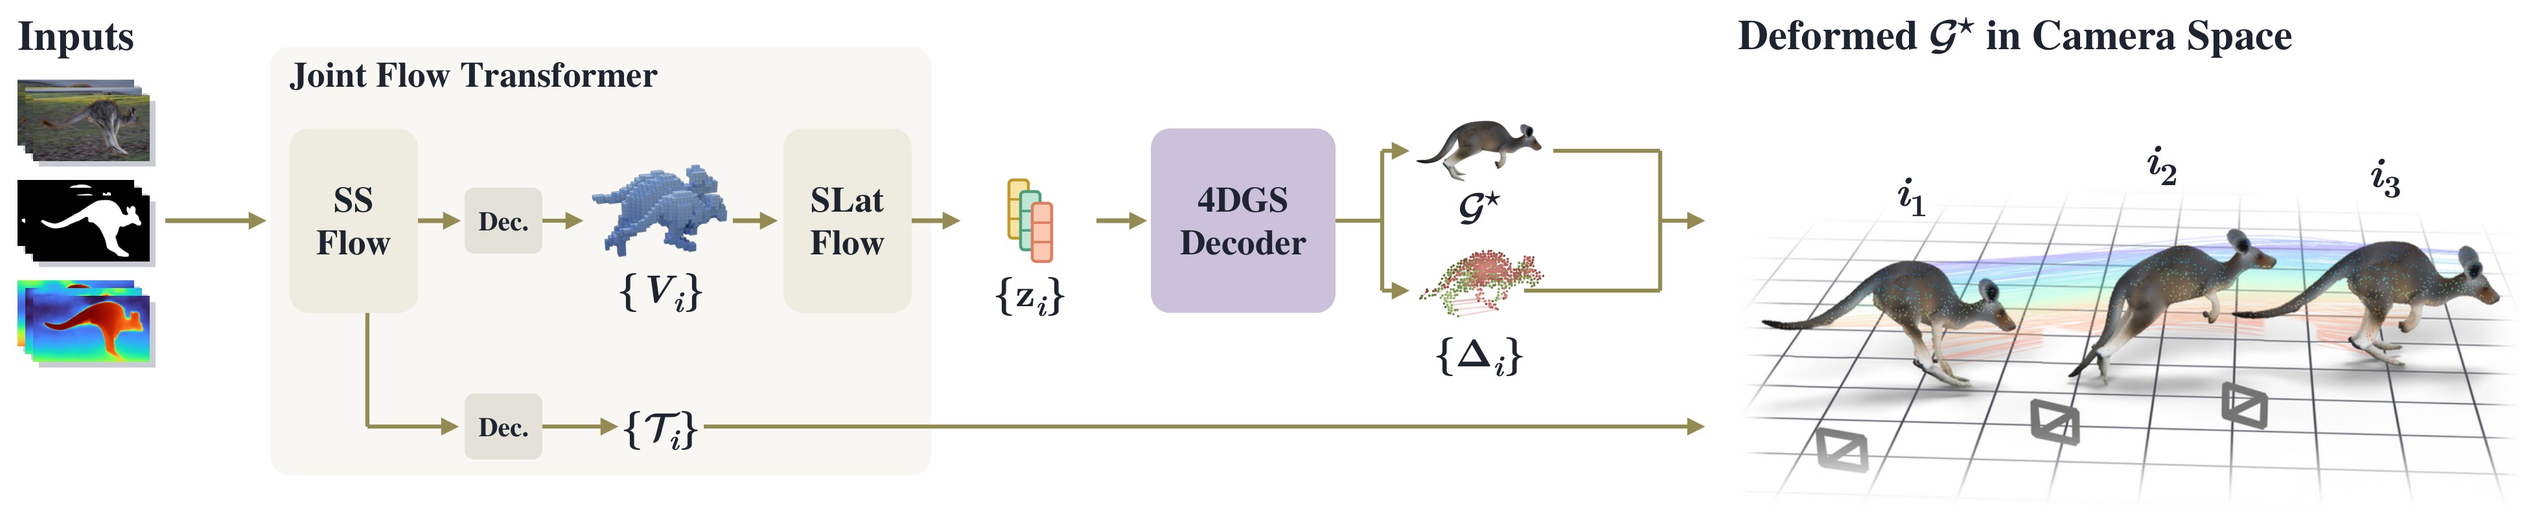
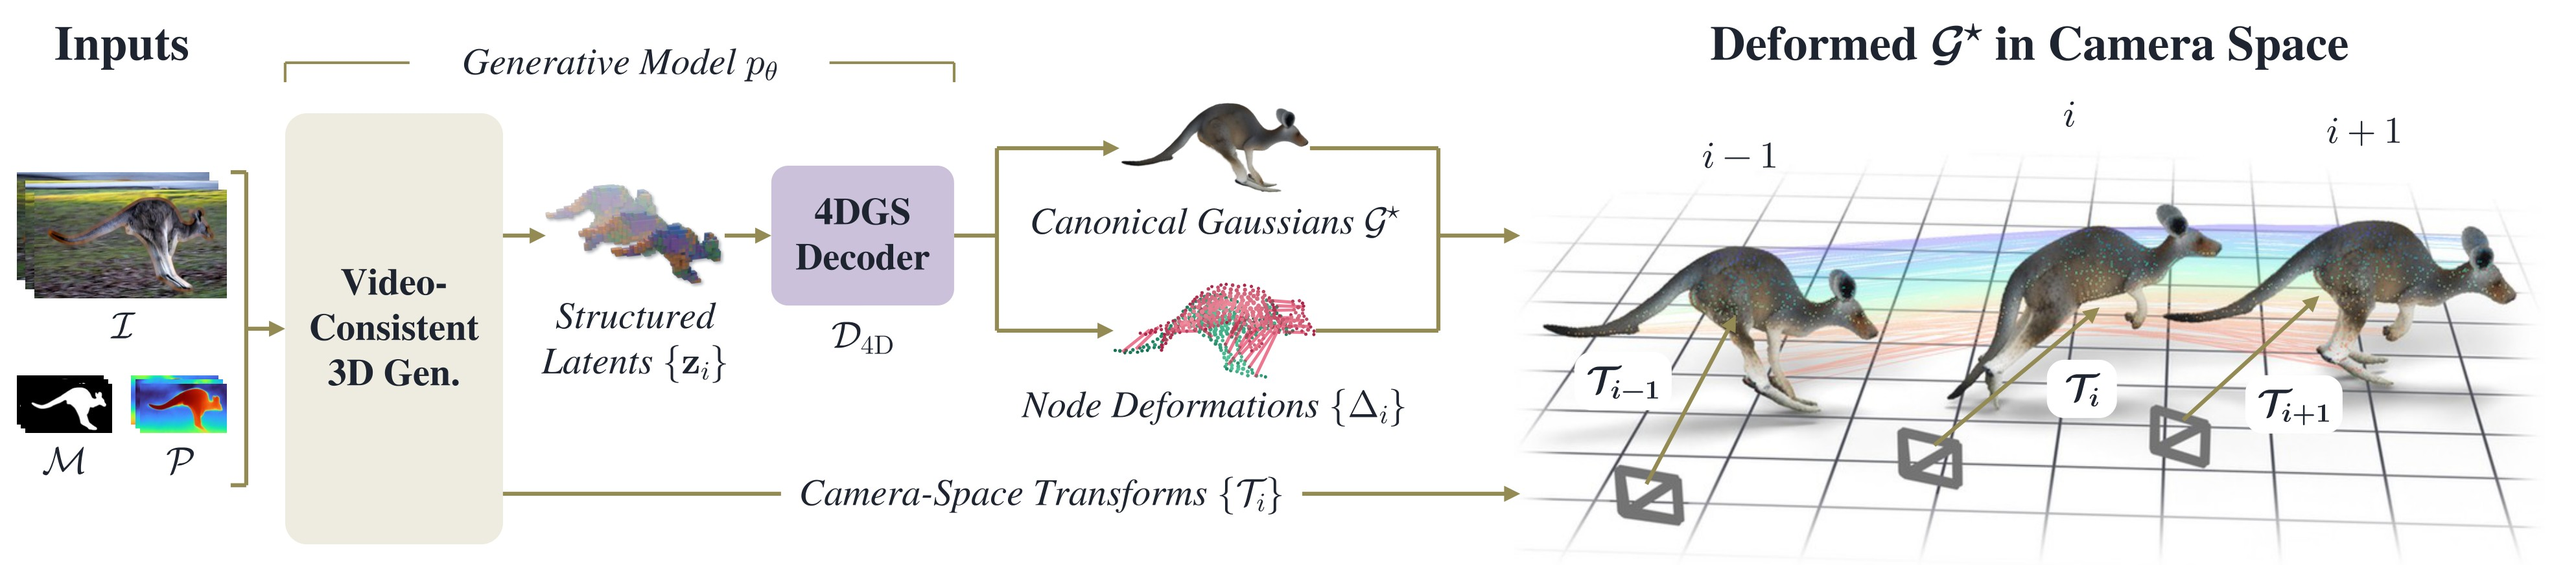
Method: latest paper figure (v27b), 3 sliding steps incl. training

diff --git a/index.html b/index.html
@@ -104,10 +104,9 @@ section { padding-block: 56px; border-top: 1px solid var(--line) }
 .m-steps { display: grid; gap: 18px; margin-top: 18px }
 .m-step { display: grid; grid-template-columns: minmax(0, 1.25fr) minmax(0, 1fr); gap: 22px; align-items: center; background: var(--surface);
   border: 1px solid var(--line); border-radius: var(--radius); padding: 18px 60px }
-.m-steps .m-noimg { padding: 18px }
 .m-track > .m-step:nth-child(2) { grid-template-columns: minmax(0, 1.7fr) minmax(0, 1fr) }
 .m-step img { width: 100%; max-height: 380px; object-fit: contain; display: block; border-radius: 10px }
-.m-step.m-noimg { grid-template-columns: 1fr }
+.m-step.m-noimg { grid-template-columns: minmax(0, 62ch); justify-content: center }
 .m-txt h3 { font-size: 1.08rem; margin: 2px 0 8px }
 .m-txt p { color: var(--muted); font-size: 0.95rem; max-width: 62ch }
 .m-txt p + p { margin-top: 8px }
@@ -274,24 +273,19 @@ footer { padding-block: 36px 48px; border-top: 1px solid var(--line); color: var
     <div class="m-car" aria-roledescription="carousel" aria-label="Method steps">
       <button class="m-nav prev" aria-label="Previous step">&#8249;</button><button class="m-nav next" aria-label="Next step">&#8250;</button>
       <div class="m-track">
-      <div class="m-step"><img src="static/method/step1.jpg" alt="Joint Flow Transformer: shared noise; first half of the layers within-frame, second half alternating within-frame and cross-frame attention.">
-        <div class="m-txt"><span class="n">01</span><h3>Joint Flow Transformer</h3>
-        <p>SAM 3D's two flow transformers process all frames together. The first half of the self-attention layers stay within each frame; the rest alternate with <b>cross-frame attention</b> that reuses the same weights, so no parameters are added.</p>
-        <p>All frames start from <b>one shared noise sample</b>, which keeps shape, texture and camera-space motion from jumping between frames.</p></div></div>
-      <div class="m-step"><img src="static/method/step2.jpg" alt="4DGS decoder: a canonical branch cross-attends to all frame latents and outputs G*; a deformation branch outputs a node deformation per frame.">
-        <div class="m-txt"><span class="n">02</span><h3>4DGS Decoder</h3>
-        <p>Two copies of SAM 3D's Gaussian decoder both read the canonical latent <i>z</i><sub>c</sub>. The <b>canonical branch</b> cross-attends to every frame's latent, so details seen in any frame end up in one set of Gaussians <i>G</i>*.</p>
-        <p>The <b>deformation branch</b> predicts a node deformation <i>&Delta;</i><sub>i</sub> for each frame.</p></div></div>
-      <div class="m-step"><img src="static/method/step3.jpg" alt="Deforming G*: node deformations move control nodes and G* follows them by linear blend skinning.">
-        <div class="m-txt"><span class="n">03</span><h3>Deforming <i>G</i>*</h3>
-        <p><i>&Delta;</i><sub>i</sub> moves sparse control nodes, and every Gaussian follows its nearest nodes by <b>linear blend skinning</b>. The same Gaussians exist in every frame, which gives dense tracks across the video.</p>
-        <p>The transform <i>T</i><sub>i</sub> (rotation, translation, scale) then places the object in camera space.</p></div></div>
+      <div class="m-step"><img src="static/method/step1.jpg" alt="Video-consistent 3D generation: shared noise, sparse-structure and SLat DiTs whose later layers alternate within-frame and cross-frame attention, producing per-frame latents z_i and camera-space transforms T_i.">
+        <div class="m-txt"><span class="n">01</span><h3>Video-Consistent 3D Generation</h3>
+        <p>SAM 3D's two flow transformers process all frames of the video jointly. The first half of the self-attention layers stays within each frame; the rest alternate with <b>cross-frame attention</b> that reuses the same weights, so no parameters are added.</p>
+        <p>All frames share <b>one initial noise sample</b>, which keeps them from drifting to different modes and reduces motion jitter. The model outputs per-frame latents {<i>z</i><sub>i</sub>} and camera-space transforms {<i>T</i><sub>i</sub>}.</p></div></div>
+      <div class="m-step"><img src="static/method/step2.jpg" alt="4DGS decoder: a canonical branch cross-attends to all frame latents and outputs G*; a deformation branch outputs node deformations Delta_i; G* follows the nodes by linear blend skinning.">
+        <div class="m-txt"><span class="n">02</span><h3>From Multi-frame Latents to One 4D Object</h3>
+        <p>The <b>4DGS decoder</b> duplicates SAM 3D's Gaussian decoder into two branches that both read the canonical latent <i>z</i><sub>0</sub>. The <b>canonical branch</b> cross-attends to every frame's latent to find the one set of Gaussians <i>G</i>* that best explains all frames.</p>
+        <p>The <b>deformation branch</b> predicts sparse control-node deformations <i>&Delta;</i><sub>i</sub>, and <i>G</i>* follows the nodes by <b>linear blend skinning</b>. The same Gaussians exist in every frame, which gives dense correspondence.</p></div></div>
+      <div class="m-step m-noimg"><div class="m-txt"><span class="n">03</span><h3>Learning from In-the-Wild Videos</h3>
+        <p>Offline optimization-based reconstruction turns casually captured videos into <b>4D pseudo-ground truth</b> in exactly our representation, trained alongside synthetic animations.</p>
+        <p>An <b>LLM verifier</b> filters failed reconstructions, then post-trains the model with <b>DPO</b> on its own samples, preferring multi-view-consistent, higher-fidelity results.</p></div></div>
       </div>
       <div class="m-dots" role="tablist"></div>
-    </div>
-    <div class="m-steps">
-      <div class="m-step m-noimg"><div class="m-txt"><span class="n">04</span><h3>Training on real videos</h3>
-        <p>Offline test-time optimization turns ~100k in-the-wild videos into 4D pseudo-ground truth, trained alongside synthetic data. Preference optimization with an LLM verifier then corrects errors the model inherits.</p></div></div>
     </div>
   </div>
 </section>
